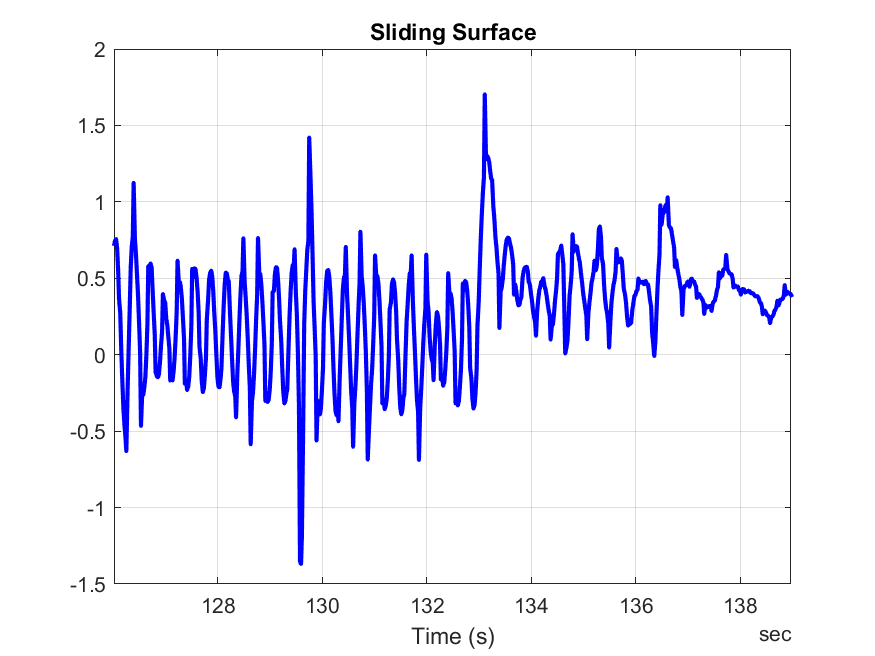
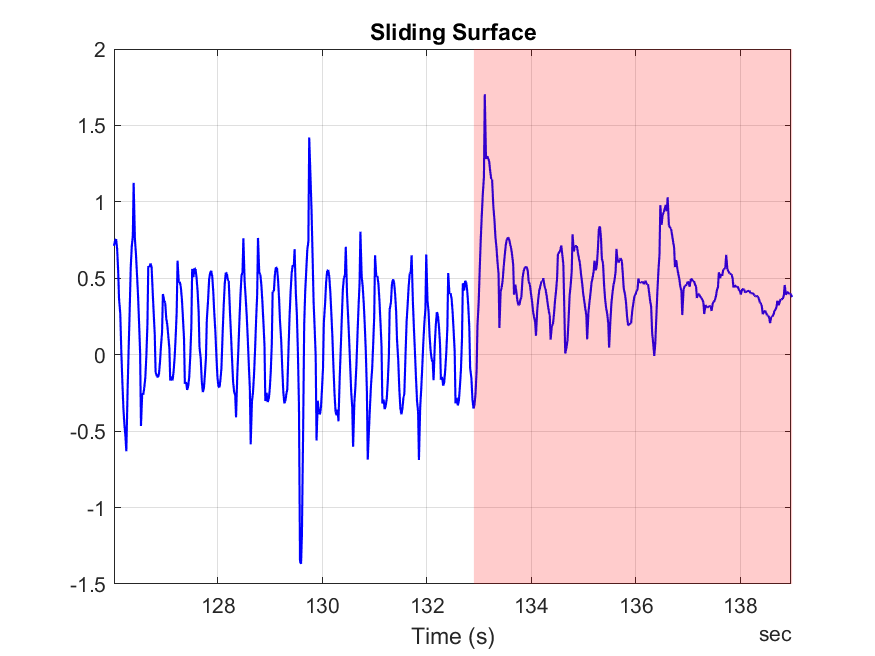
SMC-관성모멘트 및 Ks경향성 실험 데이터 추가

diff --git a/Datasets/Hexacopter_비행실험/drawSMCFigureFromMAT.m b/Datasets/Hexacopter_비행실험/drawSMCFigureFromMAT.m
@@ -1,13 +1,17 @@
 close all; clear
 r2d = 180/pi;
 
-lineWidth = 2;
+lineWidth = 1;
 
 %% 데이터 선택
-log_filename = 'log_16_2025-6-5-14-10-52-SMC-M1_30-1';
+log_filename = 'log_16_2025-6-5-14-10-52-SMC-M1_30-2';
 
 save_dir = [log_filename, '_fig']; % 저장할 디렉토리 이름
 load([log_filename,'.mat'])
+
+%% 그래프 최대값 설정
+lim_attitude_max = 20; % deg
+lim_rate_max = 180; %deg/s
 
 %% 결과 저장 디렉토리 생성
 
@@ -33,7 +37,9 @@ legend("Roll", "Roll Command")
 xlabel("Time (s)"); ylabel("Angle (deg)")
 
 xlim([attitude_Time(1), attitude_Time(end)]);
-ylim([-20 20]);
+ylim([-lim_attitude_max lim_attitude_max]);
+
+highlight_fault_regions(input_rc_values_var8.Time, input_rc_values_var8.Var1,1800, 'red');
 title("\phi  vs  \phi_{cmd}")
 % 이미지 저장
 saveas(gcf, fullfile(save_dir, '1_roll_vs_command.png'));
@@ -48,13 +54,15 @@ plot(attitude_Time, pitch, 'LineWidth', lineWidth,'Color','blue');
 hold on;
 plot(attitudeTarget_Time, pitch_cmd, 'r--', 'LineWidth', lineWidth);
 grid on;
+
 hold off;
 legend("Pitch", "Pitch Command")
 xlabel("Time (s)"); ylabel("Angle (deg)")
-title("\theta  vs  \theta_{cmd}")
-
 xlim([attitude_Time(1), attitude_Time(end)]);
-ylim([-20 20])
+ylim([-lim_attitude_max lim_attitude_max])
+
+highlight_fault_regions(input_rc_values_var8.Time, input_rc_values_var8.Var1,1800, 'red');
+title("\theta  vs  \theta_{cmd}")
 
 % 이미지 저장
 saveas(gcf, fullfile(save_dir, '2_pitch_vs_command.png'));
@@ -68,10 +76,13 @@ plot(attitude_Time, yaw, 'LineWidth', lineWidth,'Color','blue');
 hold on;
 %plot(attitudeTarget_Time, yaw_cmd, 'r--', 'LineWidth', 3);
 grid on;
+
 hold off;
 legend("Yaw", "Yaw Command")
-xlabel("Time (s)"); ylabel("Angle (deg)")
-xlim([attitude_Time(1), attitude_Time(end)]);
+xlabel("Time (s)"); ylabel("Heading (deg)")
+xlim([attitude_Time(1), attitude_Time(end)]); ylim([-90 90])
+
+highlight_fault_regions(input_rc_values_var8.Time, input_rc_values_var8.Var1,1800, 'red');
 title("\psi")
 
 % 이미지 저장
@@ -86,12 +97,15 @@ rollrate_cmd_t = vehicle_rates_setpoint_roll.Time;
 figure;
 plot(rollrate_t, rollrate,'LineWidth', lineWidth,'Color','blue');
 grid on;
-title("p vs p_{sp}");
 hold on;
 plot(rollrate_cmd_t, rollrate_cmd,'r--', 'LineWidth', lineWidth);
+
 legend("p","p_{sp}");
 xlabel("Time (s)"); ylabel("Angular Rate (deg/s)")
+xlim([rollrate_t(1), rollrate_t(end)]); ylim([-lim_rate_max, lim_rate_max])
 
+title("p vs p_{sp}");
+highlight_fault_regions(input_rc_values_var8.Time, input_rc_values_var8.Var1,1800, 'red');
 saveas(gcf, fullfile(save_dir, '4_rollrate.png'));
 
 %% Pitchrate
@@ -108,7 +122,9 @@ hold on;
 plot(pitchrate_cmd_t, pitchrate_cmd,'r--', 'LineWidth', lineWidth);
 legend("q","q_{sp}");
 xlabel("Time (s)"); ylabel("Angular Rate (deg/s)")
+xlim([pitchrate_t(1), pitchrate_t(end)]); ylim([-lim_rate_max, lim_rate_max]); 
 
+highlight_fault_regions(input_rc_values_var8.Time, input_rc_values_var8.Var1,1800, 'red');
 saveas(gcf, fullfile(save_dir, '5_pitchrate.png'));
 %% Yawrate
 yawrate = Gyro_GyroZ.Var1 * r2d;
@@ -120,12 +136,14 @@ figure;
 plot(yawrate_time, yawrate, 'LineWidth', lineWidth,'Color','blue');
 grid on;
 hold on;
+
 plot(yawrate_cmd_t, yawrate_cmd,'r--', 'LineWidth', lineWidth);
 legend("Yawrate");
 title("r vs r_{sp}");
 xlabel("Time (s)"); ylabel("Angular Velocity (deg/s)")
-xlim([yawrate_time(1), yawrate_time(end)])
+xlim([yawrate_time(1), yawrate_time(end)]); ylim([-lim_rate_max, lim_rate_max]);
 
+highlight_fault_regions(input_rc_values_var8.Time, input_rc_values_var8.Var1,1800, 'red');
 saveas(gcf, fullfile(save_dir, '6_yawrate.png'));
 
 
@@ -154,6 +172,8 @@ hold off;
 legend("M1", "M2", "M3", "M4", "M5", "M6", 'Location', 'southwest')
 xlabel("Time (s)"); ylabel("PWM")
 xlim([thr_time(1), thr_time(end)]); ylim([900 2100]);
+
+highlight_fault_regions(input_rc_values_var8.Time, input_rc_values_var8.Var1,1800, 'red');
 title("Actuator PWM")
 saveas(gcf, fullfile(save_dir, '7_pwm_signals.png'));
 
@@ -182,6 +202,8 @@ hold off;
 legend("M1", "M2", "M3", "M4", "M5", "M6", 'Location', 'southwest')
 xlabel("Time (s)"); ylabel("PWM")
 xlim([pwm_time(1), pwm_time(end)]); ylim([900 2100]);
+
+highlight_fault_regions(input_rc_values_var8.Time, input_rc_values_var8.Var1,1800, 'red');
 title("Actuator PWM After Fault")
 % 이미지 저장
 saveas(gcf, fullfile(save_dir, '8_pwm_signals_after_fault.png'));
@@ -204,6 +226,8 @@ ylabel("Altitude")
 xlabel("Time (s)")
 xlim([localNED_Time(1), localNED_Time(end)]);
 title("Altitude")
+
+highlight_fault_regions(input_rc_values_var8.Time, input_rc_values_var8.Var1,1800, 'red');
 saveas(gcf, fullfile(save_dir, '9_altitude.png'));
 
 
@@ -218,11 +242,14 @@ figure;
 plot(smc_time, smc_phi_cmd*r2d, 'LineWidth', lineWidth,'Color','blue');
 grid on;
 hold on;
+
 plot(att_cmd_time, att_cmd_roll*r2d, 'LineWidth', lineWidth,'Color','red')
 xlabel("Time (s)");
 xlim([smc_time(1), smc_time(end)]);
 title("\phi_{cmd}");
 legend("LPF Filtered", "Raw")
+
+highlight_fault_regions(input_rc_values_var8.Time, input_rc_values_var8.Var1,1800, 'red');
 % 이미지 저장
 saveas(gcf, fullfile(save_dir, '10_phi_cmd_vs_lpf_cmd.png'));
 
@@ -234,9 +261,12 @@ smc_s = vehicle_attitude_smc_setpoint_s.Var1;
 figure;
 plot(smc_time, smc_s, 'LineWidth', lineWidth,'Color','blue');
 grid on;
+
 xlabel("Time (s)");
 xlim([smc_time(1), smc_time(end)]);
 title("Sliding Surface");
+highlight_fault_regions(input_rc_values_var8.Time, input_rc_values_var8.Var1,1800, 'red');
+
 % 이미지 저장
 saveas(gcf, fullfile(save_dir, '11_sliding_surface.png'));
 
@@ -247,42 +277,64 @@ pid_tau_roll_time = actuator_controls_control_power_var1.Time;
 pid_tau_roll = actuator_controls_control_power_var1.Var1;
 
 figure;
-plot(smc_time, smc_s, 'LineWidth', lineWidth,'Color','blue');
+plot(smc_time, smc_tau, 'LineWidth', lineWidth,'Color','blue');
 grid on;
 hold on;
+
 plot(pid_tau_roll_time, pid_tau_roll, 'LineWidth', lineWidth,'Color','red')
 xlabel("Time (s)");
 xlim([smc_time(1), smc_time(end)]);
 title("\tau_{PID} vs \tau_{SMC}");
 legend("SMC","PID")
+
+highlight_fault_regions(input_rc_values_var8.Time, input_rc_values_var8.Var1,1800, 'red');
 % 이미지 저장
 saveas(gcf, fullfile(save_dir, '12_tau_roll_smc_pid.png'));
 
-%%
+%% Sliding Surface, Roll Error & Roll Error dot
 smc_time = vehicle_attitude_smc_setpoint_e.Time;
+smc_s = vehicle_attitude_smc_setpoint_s.Var1;
 smc_e = vehicle_attitude_smc_setpoint_e.Var1;
-
-figure;
-plot(smc_time, smc_e, 'LineWidth', lineWidth,'Color','blue');
-grid on;
-xlabel("Time (s)");
-xlim([smc_time(1), smc_time(end)]);
-title("e");
-% 이미지 저장
-saveas(gcf, fullfile(save_dir, '13_error.png'));
-
-%%
-smc_time = vehicle_attitude_smc_setpoint_e_dot.Time;
 smc_e_dot = vehicle_attitude_smc_setpoint_e_dot.Var1;
+smc_e_integral = vehicle_attitude_smc_setpoint_integral_e.Var1;
 
-figure;
-plot(smc_time, smc_e_dot, 'LineWidth', lineWidth,'Color','blue');
+figure('Position',[100 100 800 800]);
+
+subplot(411)
+plot(smc_time, smc_s, 'LineWidth', lineWidth,'Color','blue');
 grid on;
 xlabel("Time (s)");
 xlim([smc_time(1), smc_time(end)]);
-title("\dot{e}");
+title('$\mathbf{s}$',  'Interpreter', 'latex', 'FontSize', 12);
+highlight_fault_regions(input_rc_values_var8.Time, input_rc_values_var8.Var1,1800, 'red');
+
+subplot(412)
+plot(smc_time, smc_e * r2d, 'LineWidth', lineWidth,'Color','blue');
+grid on;
+xlabel("Time (s)"); ylabel("deg");
+xlim([smc_time(1), smc_time(end)]);
+title('$\mathbf{e}$',  'Interpreter', 'latex', 'FontSize', 12);
+highlight_fault_regions(input_rc_values_var8.Time, input_rc_values_var8.Var1,1800, 'red');
+
+subplot(413);
+plot(smc_time, smc_e_dot * r2d, 'LineWidth', lineWidth,'Color','blue');
+grid on;
+xlabel("Time (s)"); ylabel("deg/s");
+xlim([smc_time(1), smc_time(end)]);
+title('$\mathbf{\dot{e}}$', 'Interpreter', 'latex', 'FontSize', 12);
+highlight_fault_regions(input_rc_values_var8.Time, input_rc_values_var8.Var1,1800, 'red');
+
+subplot(414);
+plot(smc_time, smc_e_integral * r2d, 'LineWidth', lineWidth,'Color','blue');
+grid on;
+xlabel("Time (s)"); ylabel("deg");
+xlim([smc_time(1), smc_time(end)]); ylim([-20 20]);
+title('$\mathbf{\int{e}}$', 'Interpreter', 'latex', 'FontSize', 12);
+highlight_fault_regions(input_rc_values_var8.Time, input_rc_values_var8.Var1,1800, 'red');
+
+
 % 이미지 저장
-saveas(gcf, fullfile(save_dir, '14_error_dot.png'));
+saveas(gcf, fullfile(save_dir, '13_sliding_surface_and_errors.png'));
 
 %% Phi Command의 미분값들
 
@@ -298,6 +350,7 @@ grid on;
 xlabel("Time (s)");
 ylabel("deg");
 xlim([smc_cmd_time(1), smc_cmd_time(end)]);
+highlight_fault_regions(input_rc_values_var8.Time, input_rc_values_var8.Var1,1800, 'red');
 title('$\mathbf{\phi_{cmd}}$', 'Interpreter', 'latex', 'FontSize', 12);
 
 subplot(312)
@@ -306,6 +359,7 @@ grid on;
 xlabel("Time (s)");
 ylabel("deg/s");
 xlim([smc_cmd_time(1), smc_cmd_time(end)]);
+highlight_fault_regions(input_rc_values_var8.Time, input_rc_values_var8.Var1,1800, 'red');
 title('$\mathbf{\dot{\phi}_{cmd}}$', 'Interpreter', 'latex', 'FontSize', 12);
 
 subplot(313)
@@ -314,6 +368,7 @@ grid on;
 xlabel("Time (s)");
 ylabel("deg/s^2");
 xlim([smc_cmd_time(1), smc_cmd_time(end)]);
+highlight_fault_regions(input_rc_values_var8.Time, input_rc_values_var8.Var1,1800, 'red');
 title('$\mathbf{\ddot{\phi}_{cmd}}$', 'Interpreter', 'latex', 'FontSize', 12);
 % 이미지 저장
 saveas(gcf, fullfile(save_dir, '15_phi_cmd_derivates.png'));
@@ -323,6 +378,7 @@ saveas(gcf, fullfile(save_dir, '15_phi_cmd_derivates.png'));
 rc_time = input_rc_values_var10.Time;
 rc_ctrl_sw = input_rc_values_var10.Var1;
 flag_rc_ctrl_sw = input_rc_values_var10.Var1 > 1800;
+flag_rc_fault_inject = input_rc_values_var8.Var1 > 1800;
 
 rc_doublet = input_rc_values_var7.Var1;
 flag_rc_doublet = input_rc_values_var7.Var1 > 1800;
@@ -332,11 +388,15 @@ plot(rc_time, flag_rc_ctrl_sw, 'LineWidth', lineWidth,'Color','red');
 grid on;
 hold on;
 plot(rc_time, flag_rc_doublet, 'LineWidth', lineWidth,'Color','blue');
+plot(rc_time, flag_rc_fault_inject, 'LineWidth', lineWidth,'Color','green');
 xlabel("Time (s)");
 xlim([rc_time(1), rc_time(end)]);
 yticks([0 1]);
 title("RC Command");
-legend("SMC", "Doublet");
+legend("SMC", "Doublet", "Fault Injection",'Location', 'southwest');
 % 이미지 저장
 saveas(gcf, fullfile(save_dir, '15_flag_ctrl_sw_doublet.png'));
 
+
+%%
+close all
